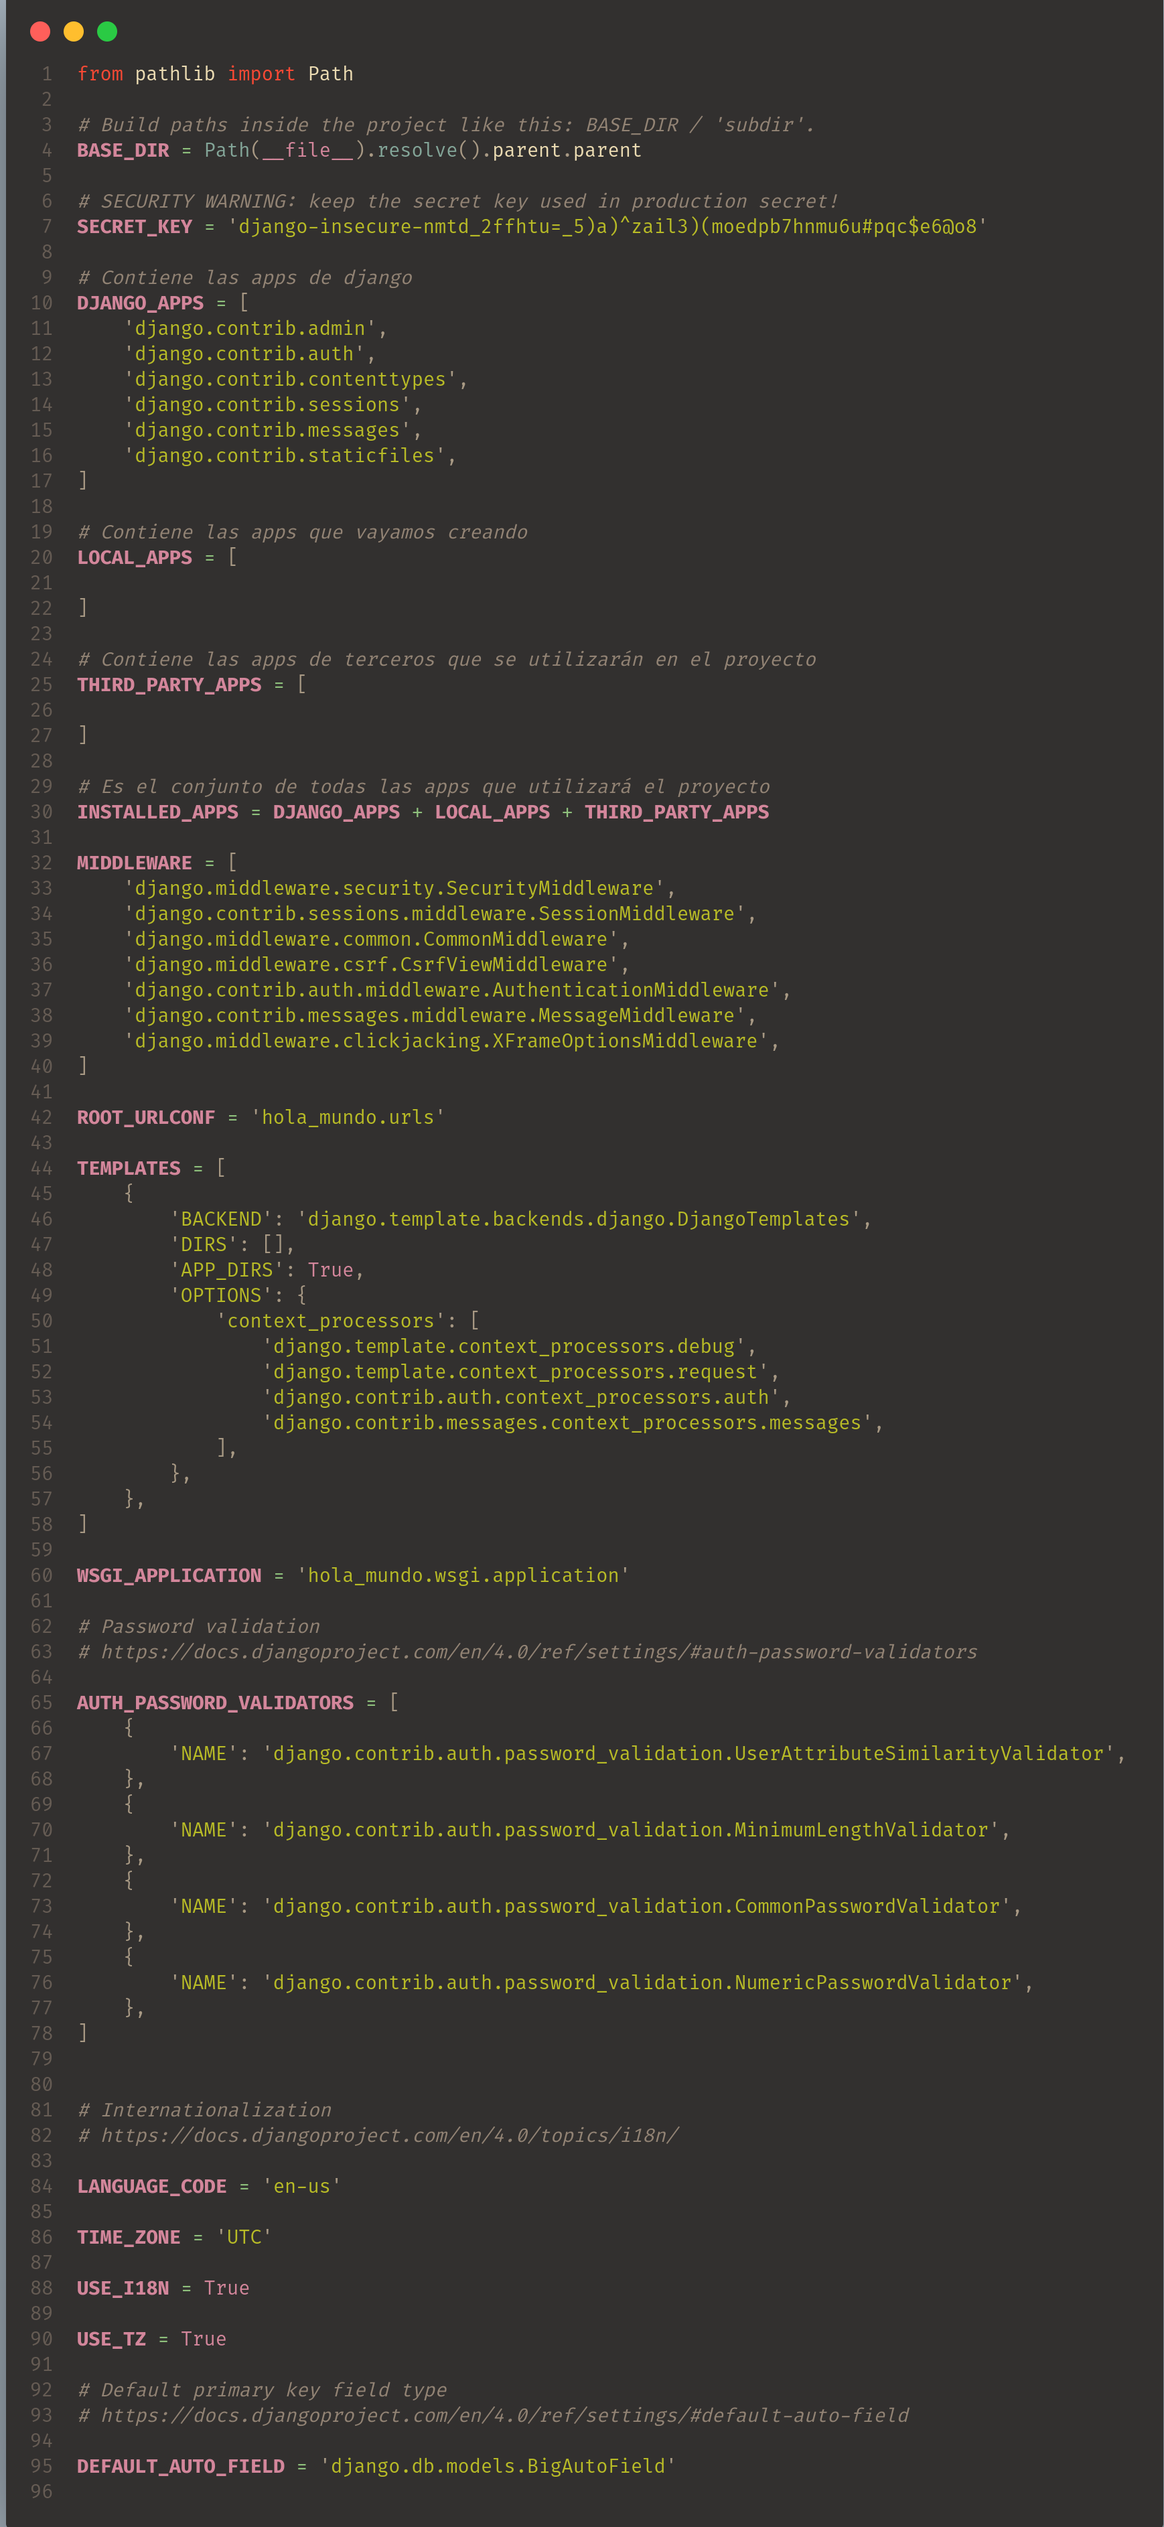
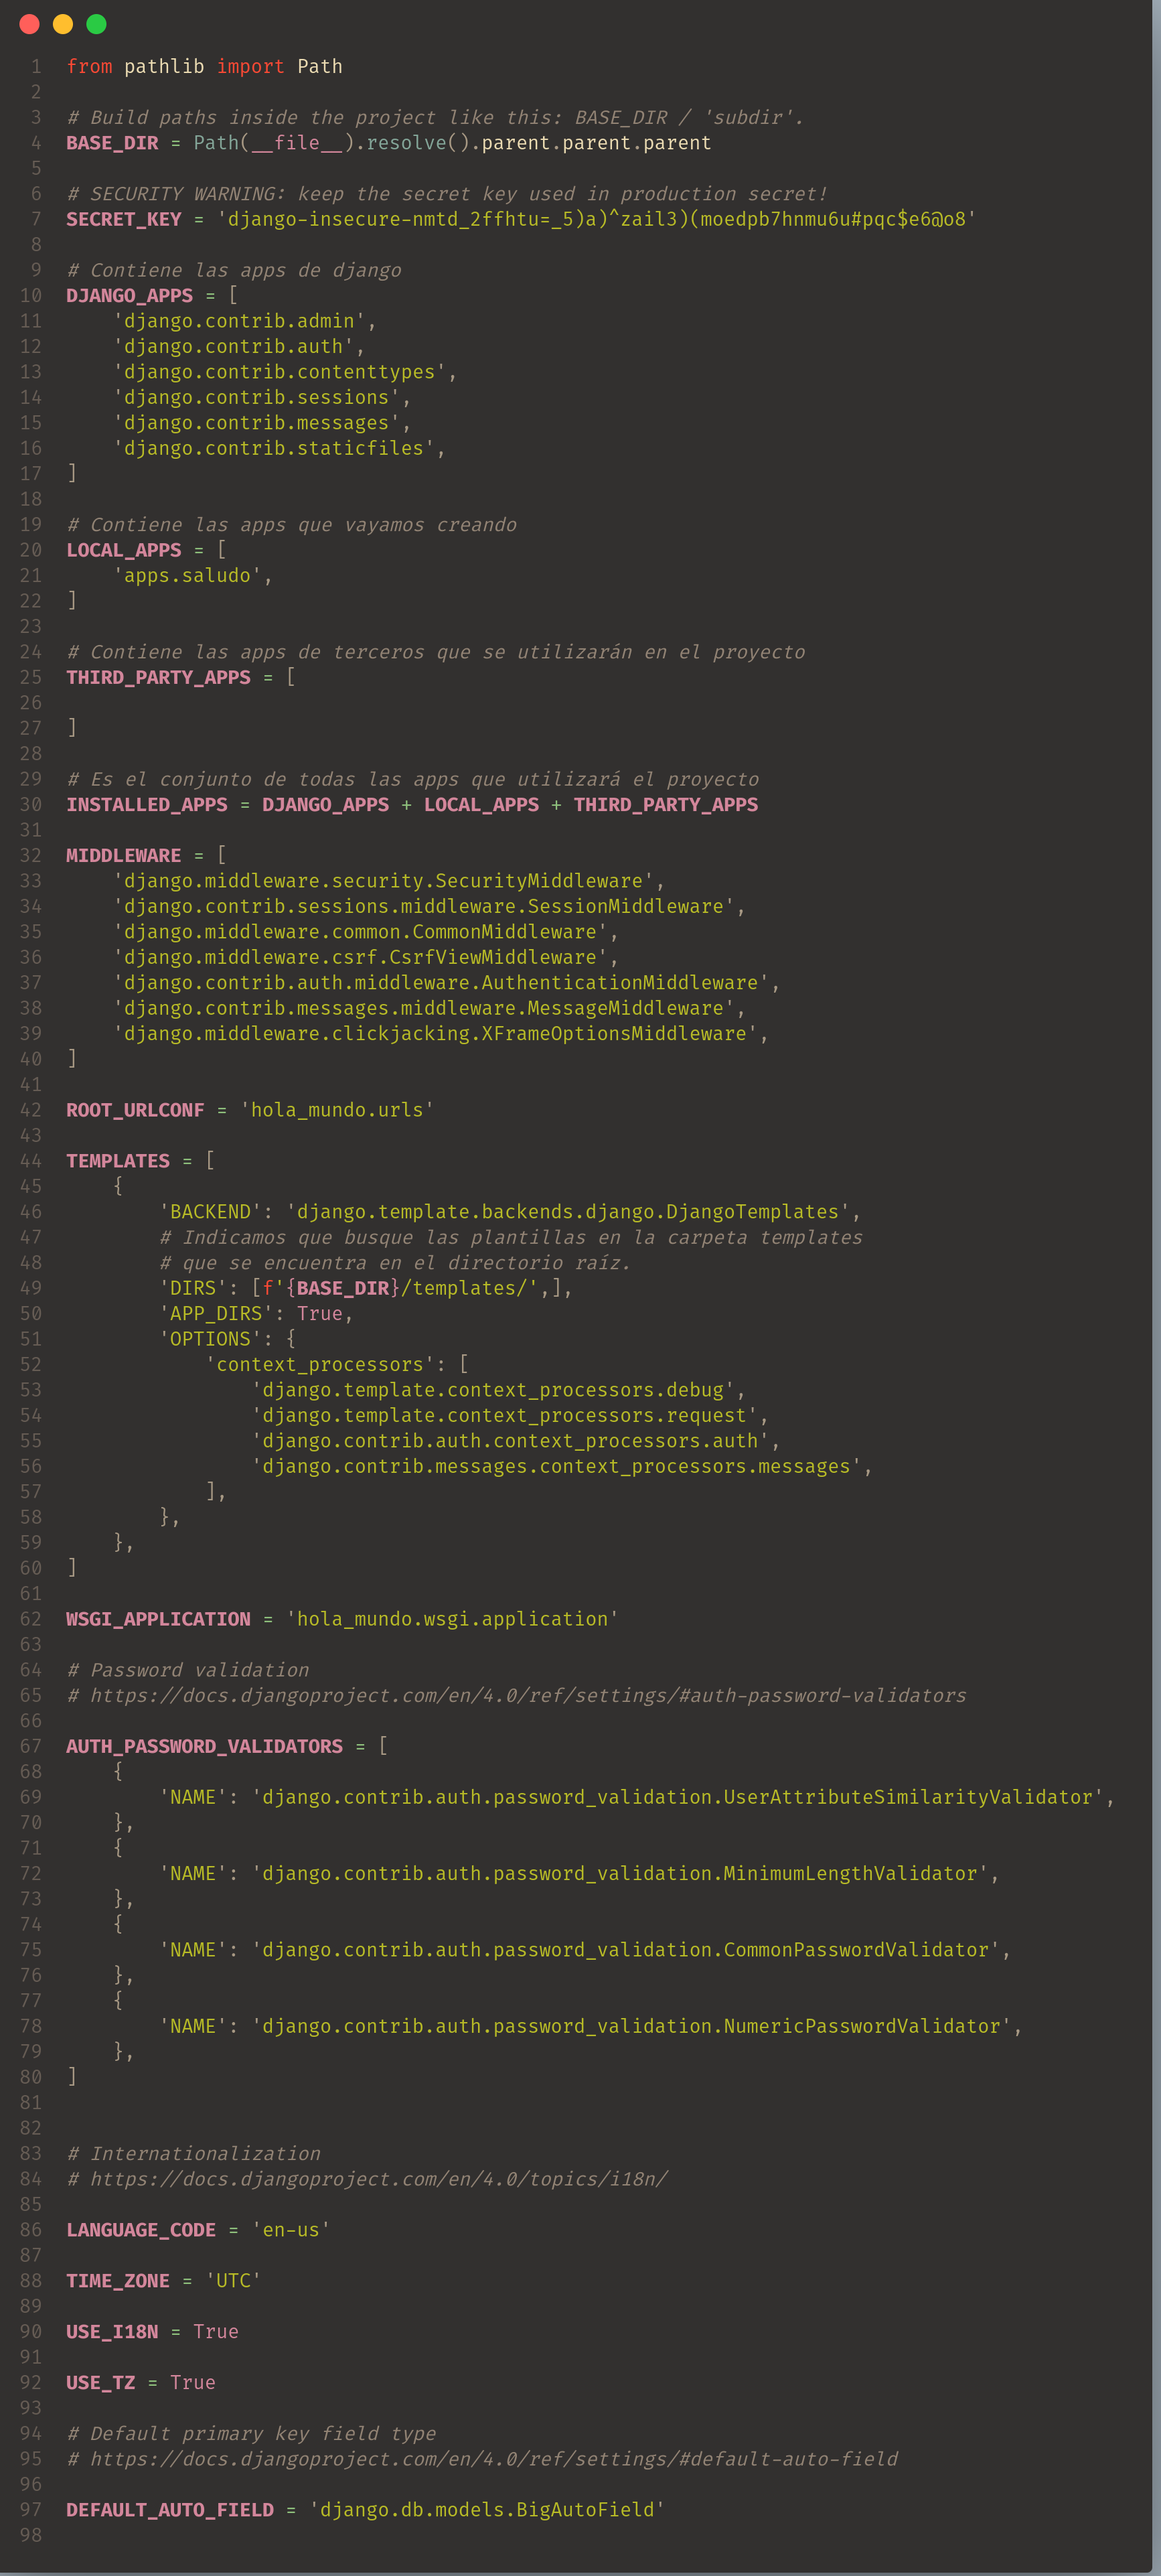
Integra correcciones de imágenes y el archivo final de la sección

diff --git a/01_Introduccion/10_Hola_mundo.md b/01_Introduccion/10_Hola_mundo.md
@@ -1,0 +1,42 @@
+# ¡Hola mundo!
+Hemos llegado al final de esta sección introductoria de Django que tiene como objetivo que 
+realices tu hola mundo en Django con un proyecto configurado de manera ordenada para que 
+tengas la nociones de como configurar tus próximos proyectos.
+
+Con todo lo que hemos hecho a través de esta sección hemos dejado listo el terreno para solo
+crear una vista que se va a encargar de renderizar las templates que creamos y "enganchar" esa
+vista a un URL.
+
+## Creando la vista HolaMundoView
+Lo primero que haremos es crear nuestra Vista encargada de renderizar nuestra template. 
+Haremos uso de la Vista basada en clases __TemplateView__ para lograr este objetivo.
+
+De esta manera debe de lucir nuestra vista en el archivo __views.py__ de nuestra app "saludo":
+
+<br>
+<p align="center">
+  <a href="" rel="noopener">
+ <img  src="./assets/hola_view.png" alt="hola view"></a>
+</p>
+
+
+El siguiente paso será "enganchar" esta vista a un URL dentro del archivo __urls.py__ ubicado en nuestra app "saludo".
+
+<br>
+<p align="center">
+  <a href="" rel="noopener">
+ <img  src="./assets/urls_hola.png" alt="urls hola"></a>
+</p>
+
+Lo último que queda por hacer es levantar el servidor y visitar la URL
+```
+http://localhost:8000/saludo/hola-mundo
+```
+
+Como podemos ver se nos muestra de forma correcta el template que le indicamos a la vista:
+
+<br>
+<p align="center">
+  <a href="" rel="noopener">
+ <img  src="./assets/hola_mundo.png" alt="urls hola"></a>
+</p>
